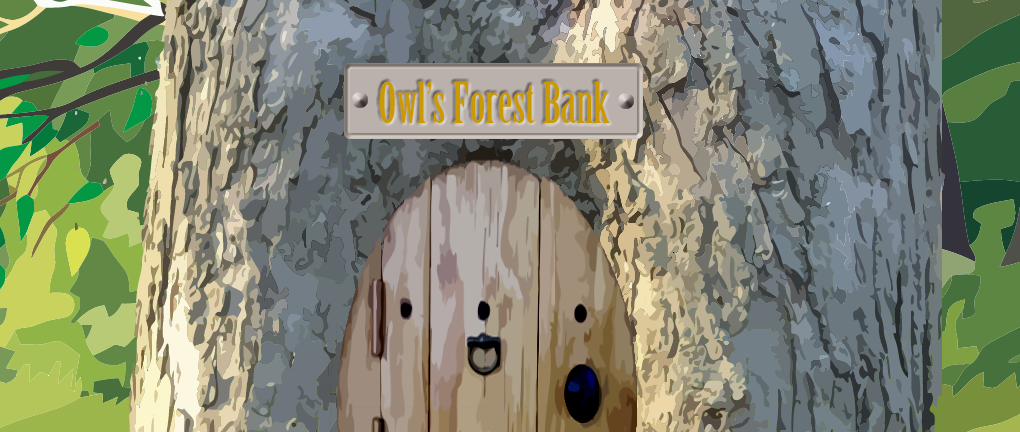
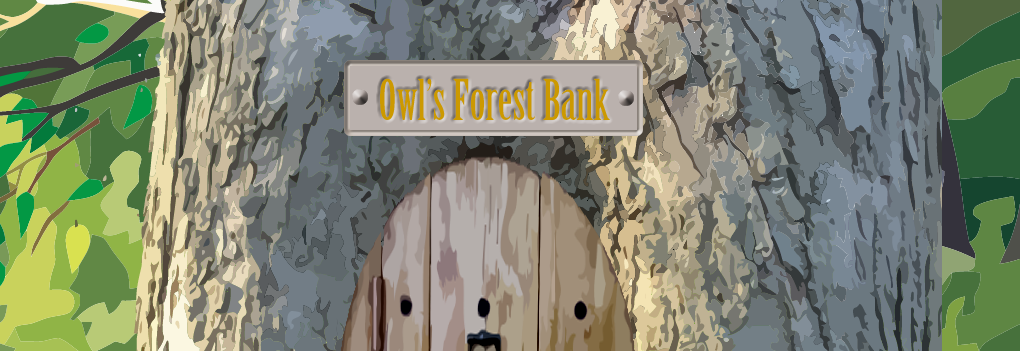
homepage

diff --git a/app/stories/.vuepress/theme/layouts/HomeLayout.vue b/app/stories/.vuepress/theme/layouts/HomeLayout.vue
@@ -1,10 +1,10 @@
 <template>
   <div class="markdown-body text-center">
-    <div class="p-5 bg-green-900">
+    <div class="p-5 bg-orange-800">
       <div class="px-2 mt-0 lg:mt-2 md:mt-0 sm:mt-0">
         <div class="flex flex-wrap -mx-2">
           <div class="w-full lg:w-1/2 px-2">
-            <div class="h-56 lg:h-56 md:h-56 sm:h-auto bg-gray-100 card">
+            <div class="bg-gray-100 card">
               <router-link
                 class="inline-block align-top cursor-pointer"
                 to="/book1/1"
@@ -14,6 +14,7 @@
                 >
                   Snappy and the Nuts
                 </p>
+                <img class="m-auto" src="/images/bk-1.png" alt="book 1"/>
 
                 <p
                   class="inline-block text-4xl lg:text-3xl md:text-2xl sm:text-lg p-2 align-top"
@@ -24,7 +25,7 @@
             </div>
           </div>
           <div class="w-full lg:w-1/2 px-2">
-            <div class="h-56 lg:h-56 md:h-56 sm:h-auto bg-gray-100 card">
+            <div class=" bg-gray-100 card">
               <div
                 class="inline-block align-top cursor-pointer"
                 @click="goToSite('https://practicebuddyapp.com')"
@@ -34,7 +35,7 @@
                 >
                   Snappy Needs a Nest
                 </p>
-
+                  <img class="m-auto" src="/images/bk-2.png" alt="book 2"/>
                 <p
                   class="inline-block text-4xl lg:text-3xl md:text-2xl sm:text-lg p-2 align-top"
                 >
@@ -50,7 +51,7 @@
       <div class="px-2 mt-0 lg:mt-2 md:mt-0 sm:mt-0">
         <div class="flex flex-wrap -mx-2">
           <div class="w-full lg:w-1/2 px-2">
-            <div class="h-56 lg:h-56 md:h-56 sm:h-auto bg-gray-100 card">
+            <div class=" bg-gray-100 card">
               <div
                 class="cursor-pointer"
                 @click="goToSite('https://yomamaisa.dev')"
@@ -61,6 +62,9 @@
                 >
                     Snappy Plays the Stock Market
                   </p>
+                  
+                  <img class="m-auto" src="/images/bk-3.png" alt="book 3"/>
+
                   <p
                   class="inline-block text-4xl lg:text-3xl md:text-2xl sm:text-lg p-2 align-top"
                 >
@@ -71,7 +75,7 @@
             </div>
           </div>
           <div class="w-full lg:w-1/2 px-2">
-            <div class="h-56 lg:h-56 md:h-56 sm:h-auto bg-gray-100">
+            <div class=" bg-gray-100">
               <div
                 class="cursor-pointer"
                 @click="goToSite('https://www.quicknoms.com')"
@@ -82,10 +86,12 @@
                 >
                     Snappy Loses
                   </p>
+                    <img class="m-auto" src="/images/bk-5.png" alt="book 5"/>
+
                   <p
                   class="inline-block text-4xl lg:text-3xl md:text-2xl sm:text-lg p-2 align-top"
                 >
-                    Yea he do
+                    How does Snappy manage a risky investment?
                   </p>
                 </div>
               </div>
@@ -98,7 +104,7 @@
       <div class="px-2 mt-0 lg:mt-2 md:mt-0 sm:mt-0">
         <div class="flex flex-wrap -mx-2">
           <div class="w-full lg:w-1/2 px-2">
-            <div class="h-56 lg:h-56 md:h-56 sm:h-auto bg-gray-100 card">
+            <div class="bg-gray-100 card">
               <div
                 class="cursor-pointer"
                 @click="goToSite('https://www.snappysquirrel.com')"
@@ -109,17 +115,20 @@
                 >
                     Snappy Buys a Bond
                   </p>
+                  
+                  <img class="m-auto" src="/images/bk-5.png" alt="book 5"/>
+
                   <p
                   class="inline-block text-4xl lg:text-3xl md:text-2xl sm:text-lg p-2 align-top"
                 >
-                    to be safe
+                    A safer way to invest!
                   </p>
                 </div>
               </div>
             </div>
           </div>
           <div class="w-full lg:w-1/2 px-2">
-            <div class="h-56 lg:h-56 md:h-56 sm:h-auto bg-gray-100 card">
+            <div class="bg-gray-100 card">
               <div
                 class="cursor-pointer"
                 @click="goToSite('https://www.thinglearn.com')"
@@ -130,10 +139,14 @@
                 >
                     More Coming Soon!
                   </p>
+                
+                <img width="125" class="m-auto" src="/images/snappy.png" alt="Snappy"/>
+
                   <p
                   class="inline-block text-4xl lg:text-3xl md:text-2xl sm:text-lg p-2 align-top"
                 >
-                    stay tuned
+                    Stay tuned!
+          
                   </p>
                 </div>
               </div>

diff --git a/app/stories/.vuepress/theme/layouts/GlobalLayout.vue b/app/stories/.vuepress/theme/layouts/GlobalLayout.vue
@@ -60,7 +60,7 @@ export default {
 <style scoped>
 .backdrop {
   background-repeat: no-repeat;
-  background-size: cover;
+  background-size: 100vmax;
   background-position: bottom;
 }
 </style>

diff --git a/app/stories/.vuepress/theme/components/Nav.vue b/app/stories/.vuepress/theme/components/Nav.vue
@@ -8,6 +8,7 @@
         width="150"
         class="p-5"
         alt="Snappy Squirrel"
+        @click="goHome()"
       />
     </span>
 
